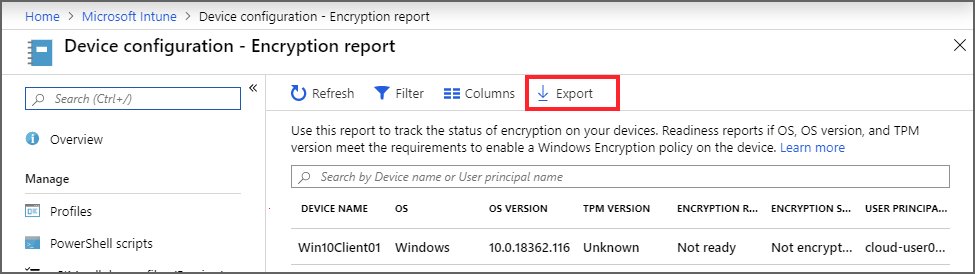
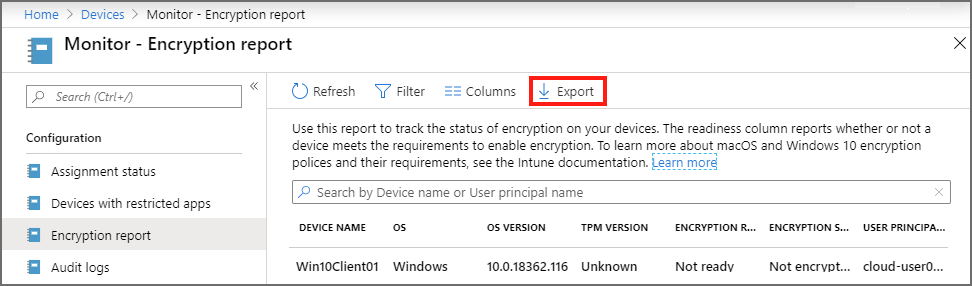
Revisions for MEM UI and screen capture

Changed region(s): [[0.0, 0.438, 1.0, 1.0], [0.0, 0.0292, 1.0, 0.4088], [0.0, 0.4672, 0.2469, 0.9635]]

diff --git a/intune/protect/encryption-monitor.md b/intune/protect/encryption-monitor.md
@@ -7,7 +7,7 @@ keywords:
 author: brenduns
 ms.author: brenduns
 manager: dougeby
-ms.date: 08/26/2019
+ms.date: 11/18/2019
 ms.topic: conceptual
 ms.service: microsoft-intune
 ms.subservice: protect
@@ -27,202 +27,213 @@ ms.custom: intune-azure
 
 ---
 
-# Monitor device encryption with Intune   
+# Monitor device encryption with Intune
 
-The Microsoft Intune encryption report is a centralized location to view details about a device’s encryption status and find options to manage device recovery keys. The recovery key options that are available depend on the type of device you're viewing.  
+The Microsoft Intune encryption report is a centralized location to view details about a device’s encryption status and find options to manage device recovery keys. The recovery key options that are available depend on the type of device you're viewing.
 
-To find the report, Sign in to the [Intune](https://go.microsoft.com/fwlink/?linkid=2090973) and go to **Device Configuration**, and then under *Monitor*, select **Encryption report**.  
+To find the report, Sign in to the [Microsoft Endpoint Manager Admin Center](https://go.microsoft.com/fwlink/?linkid=2109431). Select **Devices** > **Monitor**, and then under *Configuration*, select **Encryption report**.
 
-## View encryption details  
+## View encryption details
 
-The encryption report shows common details across the supported devices you manage. The following sections provide details about the information that Intune presents in the report.  
- 
-### Prerequisites:  
+The encryption report shows common details across the supported devices you manage. The following sections provide details about the information that Intune presents in the report.
 
-The encryption report supports reporting on devices that run the following operating system versions:  
-- macOS 10.13 or later  
-- Windows version 1607 or later  
+### Prerequisites
 
-### Report details  
+The encryption report supports reporting on devices that run the following operating system versions:
 
-The Encryption report pane displays a list of the devices you manage with high-level details about those devices. You can select a device from the list to drill-in and view additional details from the devices [Device encryption status](#device-encryption-status) pane.  
+- macOS 10.13 or later
+- Windows version 1607 or later
 
-- **Device name** - The name of the device.  
-- **OS** – The device platform, such as Windows or macOS.  
-- **OS version** – The version of Windows or macOS on the device.  
-- **TPM version** *(Applies to Windows 10 only)* – The version of the Trusted Platform Module (TPM) chip on the Windows 10 device.  
-- **Encryption readiness** – An evaluation of the devices readiness to support an applicable encryption technology, like BitLocker or FileVault encryption. Devices are identified as:  
-  - **Ready**: The device can be encrypted by using MDM policy, which requires the device meet the following requirements:  
-    
-    **For macOS devices**:  
-    - MacOS version 10.13 or later  
-    
-    **For Windows 10 devices**:  
-    - Version 1703 or later, of *Business*, *Enterprise*, *Education*, or version 1809 or later of *Pro*  
-    - The device must have a TPM chip  
-    
-    For more information, see the [BitLocker configuration service provider (CSP)](https://docs.microsoft.com/windows/client-management/mdm/bitlocker-csp) in the Windows documentation.  
+### Report details
+
+The Encryption report pane displays a list of the devices you manage with high-level details about those devices. You can select a device from the list to drill-in and view additional details from the devices [Device encryption status](#device-encryption-status) pane.
+
+- **Device name** - The name of the device.
+- **OS** – The device platform, such as Windows or macOS.
+- **OS version** – The version of Windows or macOS on the device.
+- **TPM version** *(Applies to Windows 10 only)* – The version of the Trusted Platform Module (TPM) chip on the Windows 10 device.
+- **Encryption readiness** – An evaluation of the devices readiness to support an applicable encryption technology, like BitLocker or FileVault encryption. Devices are identified as:
+  - **Ready**: The device can be encrypted by using MDM policy, which requires the device meet the following requirements:
+
+    **For macOS devices**:
+    - MacOS version 10.13 or later
+
+    **For Windows 10 devices**:
+    - Version 1703 or later, of *Business*, *Enterprise*, *Education*, or version 1809 or later of *Pro*
+    - The device must have a TPM chip
+
+    For more information, see the [BitLocker configuration service provider (CSP)](https://docs.microsoft.com/windows/client-management/mdm/bitlocker-csp) in the Windows documentation.
 
   - **Not ready**: The device doesn't have full encryption capabilities, but still supports encryption. For example, a Windows device might be encrypted manually by a user, or through Group Policy that can be set to allow encrypting without a TPM.
-  - **Not applicable**: There isn't enough information to classify this device.  
+  - **Not applicable**: There isn't enough information to classify this device.
 
-- **Encryption status** – Whether the OS drive is encrypted.  
+- **Encryption status** – Whether the OS drive is encrypted.
 
-- **User Principal Name** - The primary user of the device.  
+- **User Principal Name** - The primary user of the device.
 
-### Device encryption status  
+### Device encryption status
 
-When you select a device from the Encryption report, Intune displays the **Device encryption status** pane. This pane provides the following details:  
+When you select a device from the Encryption report, Intune displays the **Device encryption status** pane. This pane provides the following details:
 
-- **Device name** – The name of the device you're viewing.  
+- **Device name** – The name of the device you're viewing.
 
-- **Encryption readiness** - An evaluation of the devices readiness to support encryption through the MDM policy.  
-  
-  For example: When a Windows 10 device has a readiness of *Not ready*, it might still support encryption. To have the *Ready* designation, the Windows 10 device must have a TPM chip. TPM chips aren't required to support encryption. (For more information, see *Encryption readiness* in the preceding section.)  
+- **Encryption readiness** - An evaluation of the devices readiness to support encryption through the MDM policy.
 
-- **Encryption status** - Whether the OS drive is encrypted. It can take up to 24 hours for Intune to report on a device’s encryption status or a change to that status. This time includes time for the OS to encrypt, plus time for the device to report back to Intune.  
+  For example: When a Windows 10 device has a readiness of *Not ready*, it might still support encryption. To have the *Ready* designation, the Windows 10 device must have a TPM chip. TPM chips aren't required to support encryption. (For more information, see *Encryption readiness* in the preceding section.)
 
-  To speed up the reporting of FileVault encryption status before device check-in normally occurs, have users sync their devices after encryption completes.  
+- **Encryption status** - Whether the OS drive is encrypted. It can take up to 24 hours for Intune to report on a device’s encryption status or a change to that status. This time includes time for the OS to encrypt, plus time for the device to report back to Intune.
 
-- **Profiles** – A list of the *Device configuration* profiles that apply to this device and are configured with the following values:  
+  To speed up the reporting of FileVault encryption status before device check-in normally occurs, have users sync their devices after encryption completes.
+
+- **Profiles** – A list of the *Device configuration* profiles that apply to this device and are configured with the following values:
 
   - macOS:
-    - Profile type = *Endpoint protection*  
+    - Profile type = *Endpoint protection*
     - Settings > FileVault > FileVault = *Enable*
 
   - Windows 10:
-    - Profile type = *Endpoint protection*  
-    - Settings > Windows Encryption > Encrypt devices = *Require*  
+    - Profile type = *Endpoint protection*
+    - Settings > Windows Encryption > Encrypt devices = *Require*
 
-  You can use the list of profiles to identify individual policies for review should the *Profile state summary* indicate problems.  
+  You can use the list of profiles to identify individual policies for review should the *Profile state summary* indicate problems.
 
-- **Profile state summary** – A summary of the profiles that apply to this device. The summary represents the least favorable condition across the applicable profiles. For example, if only one out of several applicable profiles results in an error, the *Profile state summary* will display *Error*.  
-  
-  To view more details of a status, go to **Intune** > **Device configuration** > **Profiles**, and select the profile. Optionally, select **Device status** and then select a device.  
+- **Profile state summary** – A summary of the profiles that apply to this device. The summary represents the least favorable condition across the applicable profiles. For example, if only one out of several applicable profiles results in an error, the *Profile state summary* will display *Error*.
 
-- **Status details** – Advanced details about the device’s encryption state.  
+  To view more details of a status, go to **Intune** > **Device configuration** > **Profiles**, and select the profile. Optionally, select **Device status** and then select a device.
 
-  > [!IMPORTANT]  
-  > For Windows 10 devices, Intune only shows *Status details* for devices that run the *Windows 10 April 2019 Update* or later.  
-  
-  This field displays information for each applicable error that can be detected. You can use this information to understand why a device might not be encryption ready.  
+- **Status details** – Advanced details about the device’s encryption state.
 
-  The following are examples of the status details Intune can report:  
-  
+  > [!IMPORTANT]
+  > For Windows 10 devices, Intune only shows *Status details* for devices that run the *Windows 10 April 2019 Update* or later.
+
+  This field displays information for each applicable error that can be detected. You can use this information to understand why a device might not be encryption ready.
+
+  The following are examples of the status details Intune can report:
+
   **macOS**:
-  - The recovery key hasn't been retrieved and stored yet. Most likely, the device hasn't been unlocked, or it hasn't checked in.  
- 
-    *Consider: This result doesn't necessarily represent an error condition but a temporary state that could be because of timing on the device where escrow for recovery keys must be set up before the encryption request is sent to the device. This status might also indicate the device remains locked or hasn’t checked in with Intune recently. Finally, because FileVault encryption doesn’t start until a device is plugged in (charging), it’s possible for a user to receive a recovery key for a device that isn't yet encrypted*.  
+  - The recovery key hasn't been retrieved and stored yet. Most likely, the device hasn't been unlocked, or it hasn't checked in.
 
-  - The user is deferring encryption or is currently in the process of encryption.  
- 
-    *Consider: Either the user hasn't yet logged out after receiving the encryption request, which is necessary before FileVault can encrypt the device, or the user has manually decrypted the device. Intune can't prevent a user from decrypting their device.*  
+    *Consider: This result doesn't necessarily represent an error condition but a temporary state that could be because of timing on the device where escrow for recovery keys must be set up before the encryption request is sent to the device. This status might also indicate the device remains locked or hasn’t checked in with Intune recently. Finally, because FileVault encryption doesn’t start until a device is plugged in (charging), it’s possible for a user to receive a recovery key for a device that isn't yet encrypted*.
 
-  - The device is already encrypted. Device user must decrypt the device to continue.  
- 
-    *Consider: Intune can’t set up FileVault on a device that is already encrypted. Instead, the user needs to manually decrypt their device before it can be managed by a device configuration policy and Intune*. 
- 
-  - FileVault needs the user to approve their management profile in MacOS Catalina and higher.  
- 
-    *Consider: Beginning with MacOS version 10.15 (Catalina), user approved enrollment settings can result in the requirement that users manually approve FileVault encryption. For more information, see [User Approved enrollment](../enrollment/macos-enroll.md) in the Intune documentation*.  
+  - The user is deferring encryption or is currently in the process of encryption.
 
-  - Unknown.  
+    *Consider: Either the user hasn't yet logged out after receiving the encryption request, which is necessary before FileVault can encrypt the device, or the user has manually decrypted the device. Intune can't prevent a user from decrypting their device.*
 
-    *Consider: One possible cause for an unknown status is that the device is locked and Intune can’t start the escrow or encryption process. After the device is unlocked, progress can continue*.  
+  - The device is already encrypted. Device user must decrypt the device to continue.
 
-  **Windows 10**:  
-  - The BitLocker policy requires user consent to launch the BitLocker Drive Encryption Wizard to start encryption of the OS volume but the user didn't consent.  
+    *Consider: Intune can’t set up FileVault on a device that is already encrypted. Instead, the user needs to manually decrypt their device before it can be managed by a device configuration policy and Intune*.
+
+  - FileVault needs the user to approve their management profile in MacOS Catalina and higher.
+
+    *Consider: Beginning with MacOS version 10.15 (Catalina), user approved enrollment settings can result in the requirement that users manually approve FileVault encryption. For more information, see [User Approved enrollment](../enrollment/macos-enroll.md) in the Intune documentation*.
+
+  - Unknown.
+
+    *Consider: One possible cause for an unknown status is that the device is locked and Intune can’t start the escrow or encryption process. After the device is unlocked, progress can continue*.
+
+  **Windows 10**:
+  - The BitLocker policy requires user consent to launch the BitLocker Drive Encryption Wizard to start encryption of the OS volume but the user didn't consent.
+
+  - The encryption method of the OS volume doesn't match the BitLocker policy.
+
+  - The policy BitLocker requires a TPM protector to protect the OS volume, but a TPM isn't used.
+
+  - The BitLocker policy requires a TPM-only protector for the OS volume, but TPM protection isn't used.
+
+  - The BitLocker policy requires TPM+PIN protection for the OS volume, but a TPM+PIN protector isn't used.
+
+  - The BitLocker policy requires TPM+startup key protection for the OS volume, but a TPM+startup key protector isn't used.
+
+  - The BitLocker policy requires TPM+PIN+startup key protection for the OS volume, but a TPM+PIN+startup key protector isn't used.
+
+  - The OS volume is unprotected.
+
+  - Recovery key backup failed.
+
+  - A fixed drive is unprotected.
+
+  - The encryption method of the fixed drive doesn't match the BitLocker policy.
+
+  - To encrypt drives, the BitLocker policy requires either the user to sign in as an Administrator or, if the device is joined to Azure AD, the AllowStandardUserEncryption policy must be set to 1.
+
+  - Windows Recovery Environment (WinRE) isn't configured.
+
+  - A TPM isn't available for BitLocker, either because it isn't present, it's been made unavailable in the Registry, or the OS is on a removable drive.
+
+  - The TPM isn't ready for BitLocker.
+
+  - The network isn't available, which is required for recovery key backup.
+
+## Export report details
+
+While viewing the Encryption report pane, you can select **Export** to create a *.csv* file download of the report details. This report includes the high-level details from the *Encryption report* pane and *Device encryption status* details for each device you manage.
+
+![Export details](./media/encryption-monitor/export.png)
+
+This report can be of use in identifying problems for groups of devices. For example, you might use the report to identify a list of macOS devices that all report *FileVault is already enabled by the user*, which indicates devices that must be manually decrypted before Intune can manage their FileVault settings.
+
+## FileVault recovery keys
+
+When Intune first encrypts a macOS device with FileVault, a personal recovery key is created. Upon encryption, the device displays the personal key a single time to the end-user.
+
+For managed devices, Intune can escrow a copy of the personal recovery key. Escrow of keys enables Intune administrators to rotate keys to help protect devices, and users to recover a lost or rotated personal recovery key.
+
+Intune supports multiple options to rotate and recover personal recovery keys. One reason to rotate a key is if the current personal key is lost or thought to be at risk.
+
+> [!IMPORTANT]
+> Devices that are encrypted by users, and not by Intune, cannot be managed by Intune. This means that Intune can't escrow the personal recovery of these devices, nor manage the rotation of the recovery key. Before Intune can manage FileVault and recovery keys for the device, the user must decrypt their device, and then let Intune encrypt the device.
+
+### Rotate recovery keys
+
+- **Automatic rotation**: As an admin, you can configure the FileVault setting Personal recovery key rotation to automatically generate new recovery key’s periodically. When a new key is generated for a device, the key isn’t displayed to the user. Instead, the user must get the key either from an admin, or by using the company portal app.
+
+- **Manual rotation**: As an admin, you can view information for a device that you manage with Intune and that’s encrypted with FileVault. You can then choose to manually rotate the recovery key for corporate devices. You can’t rotate recovery keys for personal devices.
+
+  To rotate a recovery key:
+
+  1. Sign in to the [Microsoft Endpoint Manager Admin Center](https://go.microsoft.com/fwlink/?linkid=2109431).
   
-  - The encryption method of the OS volume doesn't match the BitLocker policy.  
+  2. Select **Devices** > **All devices**.
   
-  - The policy BitLocker requires a TPM protector to protect the OS volume, but a TPM isn't used.  
+  3. From the list of devices, select the device that is encrypted and for which you want to rotate its key. Then under Monitor, select **Recovery keys**.
   
-  - The BitLocker policy requires a TPM-only protector for the OS volume, but TPM protection isn't used.  
-  
-  - The BitLocker policy requires TPM+PIN protection for the OS volume, but a TPM+PIN protector isn't used.  
-  
-  - The BitLocker policy requires TPM+startup key protection for the OS volume, but a TPM+startup key protector isn't used.  
-  
-  - The BitLocker policy requires TPM+PIN+startup key protection for the OS volume, but a TPM+PIN+startup key protector isn't used.  
-  
-  - The OS volume is unprotected.  
-  
-  - Recovery key backup failed.  
-  
-  - A fixed drive is unprotected.  
-  
-  - The encryption method of the fixed drive doesn't match the BitLocker policy.  
-  
-  - To encrypt drives, the BitLocker policy requires either the user to sign in as an Administrator or, if the device is joined to Azure AD, the AllowStandardUserEncryption policy must be set to 1.  
-  
-  - Windows Recovery Environment (WinRE) isn't configured.  
-  
-  - A TPM isn't available for BitLocker, either because it isn't present, it's been made unavailable in the Registry, or the OS is on a removable drive.  
-  
-  - The TPM isn't ready for BitLocker.  
-  
-  - The network isn't available, which is required for recovery key backup.  
+  4. On the Recovery keys pane, select **Rotate FileVault recovery key**.
 
-## Export report details 
-While viewing the Encryption report pane, you can select **Export** to create a *.csv* file download of the report details.  This report includes the high-level details from the *Encryption report* pane and *Device encryption status* details for each device you manage.   
- 
+     The next time the device checks in with Intune, the personal key is rotated. When needed, the new key can be obtained by the end-user through the company portal.
+
+### Recover recovery keys
+
+- **Administrator**: Administrators can't view personal recovery keys for devices that are encrypted with FileVault.
+
+- **End-user**: End-users use the Company Portal website from any device to view the current personal recovery key for any of their managed devices. You can't view recovery keys from the Company Portal app.
+
+  To view a recovery key:
   
-![Export details](./media/encryption-monitor/export.png) 
- 
-This report can be of use in identifying problems for groups of devices. For example, you might use the report to identify a list of macOS devices that all report *FileVault is already enabled by the user*, which indicates devices that must be manually decrypted before Intune can manage their FileVault settings.  
- 
-## FileVault recovery keys   
-When Intune first encrypts a macOS device with FileVault, a personal recovery key is created. Upon encryption, the device displays the personal key a single time to the end-user.  
- 
-For managed devices, Intune can escrow a copy of the personal recovery key. Escrow of keys enables Intune administrators to rotate keys to help protect devices, and users to recover a lost or rotated personal recovery key.  
- 
-Intune supports multiple options to rotate and recover personal recovery keys. One reason to rotate a key is if the current personal key is lost or thought to be at risk.  
- 
-> [!IMPORTANT]  
->  Devices that are encrypted by users, and not by Intune, cannot be managed by Intune. This means that Intune can't escrow the personal recovery of these devices, nor manage the rotation of the recovery key.  Before Intune can manage FileVault and recovery keys for the device, the user must decrypt their device, and then let Intune encrypt the device.  
+  1. Sign in to the *Intune Company Portal* website from any device.
 
-### Rotate recovery keys  
+  2. In the portal, go to **Devices** and select the macOS device that is encrypted with FileVault.
 
-- **Automatic rotation**: As an admin, you can configure the FileVault setting Personal recovery key rotation to automatically generate new recovery key’s periodically.  When a new key is generated for a device, the key isn’t displayed to the user. Instead, the user must get the key either from an admin, or by using the company portal app.  
+  3. Select **Get recovery key**. The current recovery key is displayed.
 
-- **Manual rotation**: As an admin, you can view information for a device that you manage with Intune and that’s encrypted with FileVault. You can then choose to manually rotate the recovery key for corporate devices. You can’t rotate recovery keys for personal devices.  
+## BitLocker recovery keys
 
-  To rotate a recovery key: 
-  1. Sign in to [Intune](https://go.microsoft.com/fwlink/?linkid=2090973), go to **Devices** and then under Manage, select **All devices**.  
-  2. From the list of devices, select the device that is encrypted and for which you want to rotate its key. Then under Monitor, select **Recovery keys**.  
-  3. On the Recovery keys pane, select **Rotate FileVault recovery key**.  
+Intune provides access to the Azure AD blade for BitLocker so you can view BitLocker Key IDs and recovery keys for your Windows 10 devices, from within the Intune portal. To be accessible, the device must have its keys escrowed to Azure AD.
+
+1. Sign in to the [Microsoft Endpoint Manager Admin Center](https://go.microsoft.com/fwlink/?linkid=2109431).
+
+2. Select **Devices** > **All devices**.
+
+3. Select a device from the list, and then under *Monitor*, select **Recovery keys**.
   
-     The next time the device checks in with Intune, the personal key is rotated. When needed, the new key can be obtained by the end-user through the company portal. 
+   When keys are available in Azure AD, the following information is available:
+   - BitLocker Key ID
+   - BitLocker Recovery Key
+   - Drive Type
 
+   When keys aren't in Azure AD, Intune will display *No BitLocker key found for this device*.
 
-### Recover recovery keys  
-- **Administrator**: Administrators can't view personal recovery keys for devices that are encrypted with FileVault.  
+Information for BitLocker is obtained using the [BitLocker configuration service provider](https://docs.microsoft.com/windows/client-management/mdm/bitlocker-csp) (CSP). BitLocker CSP is supported on Windows 10 version 1703 and later, and for Windows 10 Pro version 1809 and later.
 
-- **End-user**: End-users use the Company Portal website from any device to view the current personal recovery key for any of their managed devices. You can't view recovery keys from the Company Portal app.  
-
- 
-  To view a recovery key:  
-  1. Sign in to the *Intune Company Portal* website from any device.  
-  2. In the portal, go to **Devices** and select the  macOS device that is encrypted with FileVault.  
-  3. Select **Get recovery key**. The current recovery key is displayed.  
- 
-
-## BitLocker recovery keys  
-
-Intune provides access to the Azure AD blade for BitLocker so you can view BitLocker Key IDs and recovery keys for your Windows 10 devices, from within the Intune portal.  To be accessible, the device must have its keys escrowed to Azure AD. 
-1. Sign in to [Intune](https://go.microsoft.com/fwlink/?linkid=2090973), go to **Devices** and then under *Manage*, select **All devices**.  
-
-2. Select a device from the list, and then under *Monitor*, select **Recovery keys**.  
-  
-When keys are available in Azure AD, the following information is available:
-- BitLocker Key ID  
-- BitLocker Recovery Key  
-- Drive Type  
-
-When keys aren't in Azure AD, Intune will display *No BitLocker key found for this device*.  
-
-Information for BitLocker is obtained using the [BitLocker configuration service provider](https://docs.microsoft.com/windows/client-management/mdm/bitlocker-csp) (CSP). BitLocker CSP is supported on Windows 10 version 1703 and later, and for Windows 10 Pro version 1809 and later.  
-
-## Next steps  
+## Next steps
 
 Create a [device compliance](compliance-policy-create-windows.md) policy.
